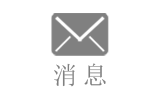
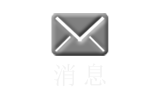
底部图片替换

diff --git a/Abalone/WZMyTabBarViewController.m b/Abalone/WZMyTabBarViewController.m
@@ -57,7 +57,7 @@
     for (int i=0; i<4; i++) {
         UIButton *button = [UIButton buttonWithType:UIButtonTypeCustom];
        
-        button.frame = CGRectMake(i*width, 4, 80, 49);
+        button.frame = CGRectMake(i*width, 0, 80, 49);
       
         [button addTarget:self action:@selector(changeSelected:) forControlEvents:UIControlEventTouchUpInside];
         button.tag = i + 1 ;
